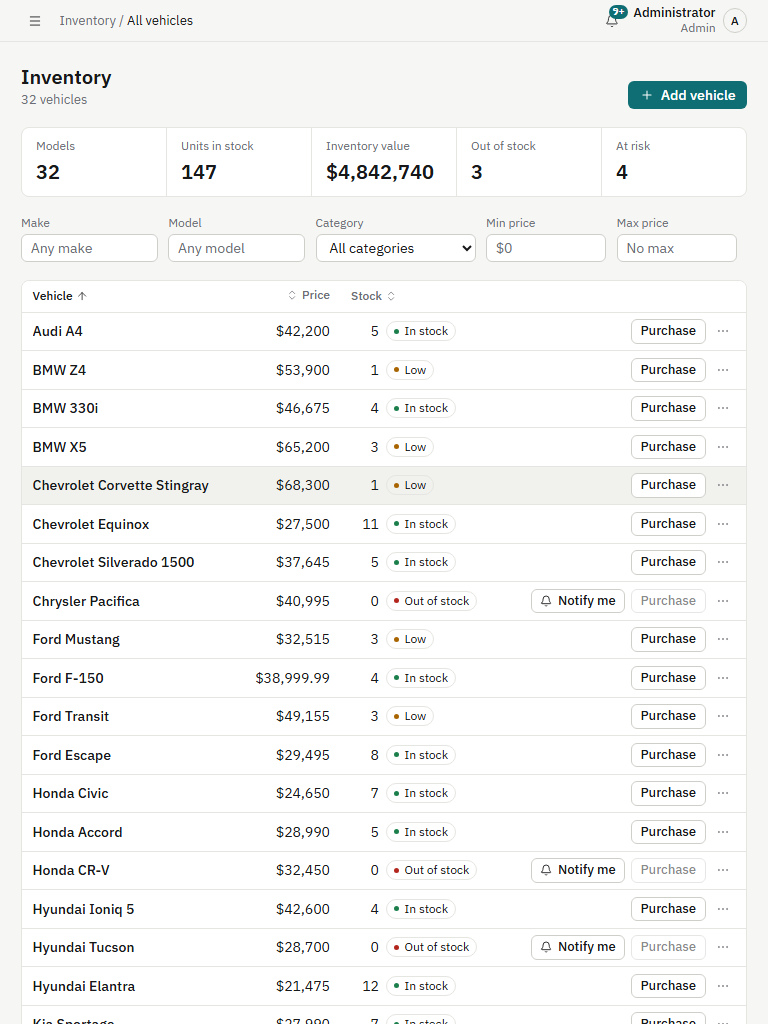
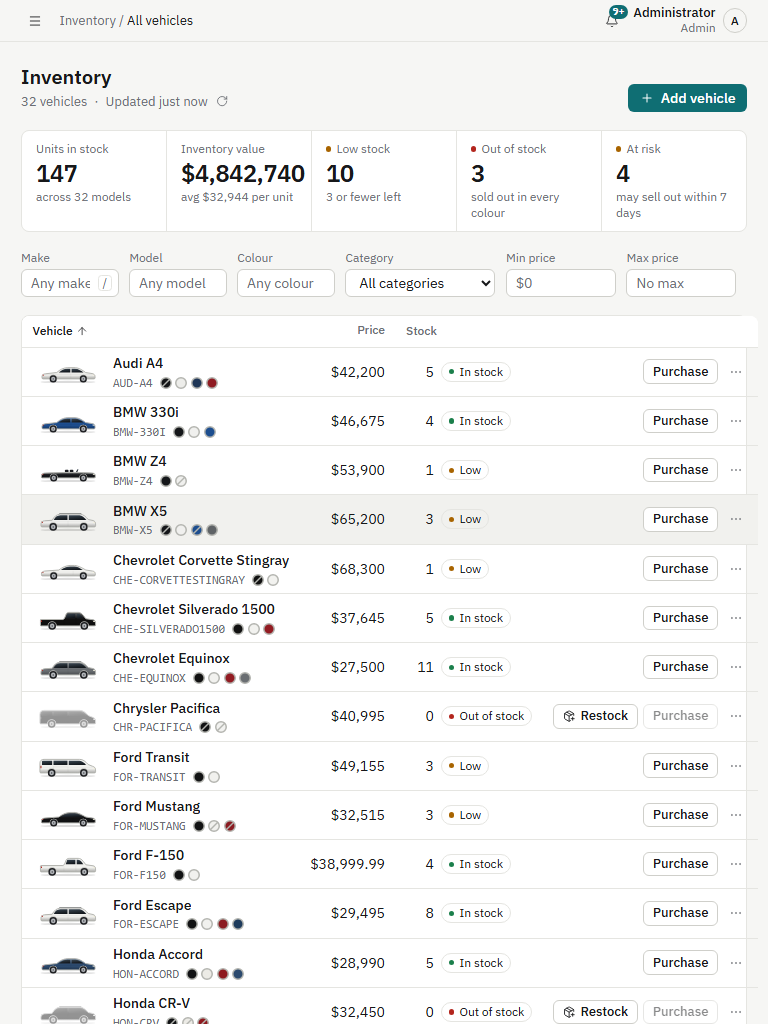
docs: refresh screenshots with colours and the new KPI strip
Re-captured at 360/768/1280/1920 px and in dark mode against the
colourful demo lot, adds the vehicle detail drawer, and widens the
purchase popover so long factory paint names fit.

diff --git a/frontend/src/dashboard/RowControls.tsx b/frontend/src/dashboard/RowControls.tsx
@@ -59,7 +59,7 @@ function PurchaseControl({ vehicle }: { vehicle: Vehicle }) {
         Purchase
       </Button>
       {open && (
-        <Popover label={`Purchase ${name}`} onClose={() => setOpen(false)} className="w-72 p-3">
+        <Popover label={`Purchase ${name}`} onClose={() => setOpen(false)} className="w-80 p-3">
           <p className="mb-2.5 truncate font-medium">{name}</p>
           {several && colour && (
             <div className="mb-3">

diff --git a/README.md b/README.md
@@ -43,8 +43,10 @@ Car pictures are built-in side-view illustrations for each body style (sedan, SU
 | At-risk view with days left | Restock pre-filled from the forecast |
 | ![Dark theme](docs/screenshots/06-dark.png) | ![Out of stock, regular user](docs/screenshots/07-user-out-of-stock.png) |
 | Dark theme | Regular user: sold-out view with Notify me |
-| ![Purchase](docs/screenshots/08-purchase-popover.png) | ![Mobile](docs/screenshots/02-admin-360.png) |
-| Purchase popover | 360 px |
+| ![Purchase](docs/screenshots/08-purchase-popover.png) | ![Vehicle detail](docs/screenshots/09-vehicle-detail.png) |
+| Purchase in a chosen colour | Vehicle detail: the car repainted per colour |
+| ![Mobile](docs/screenshots/02-admin-360.png) | |
+| 360 px (stacked rows, Sort by select) | |
 
 ## Run it locally
 
